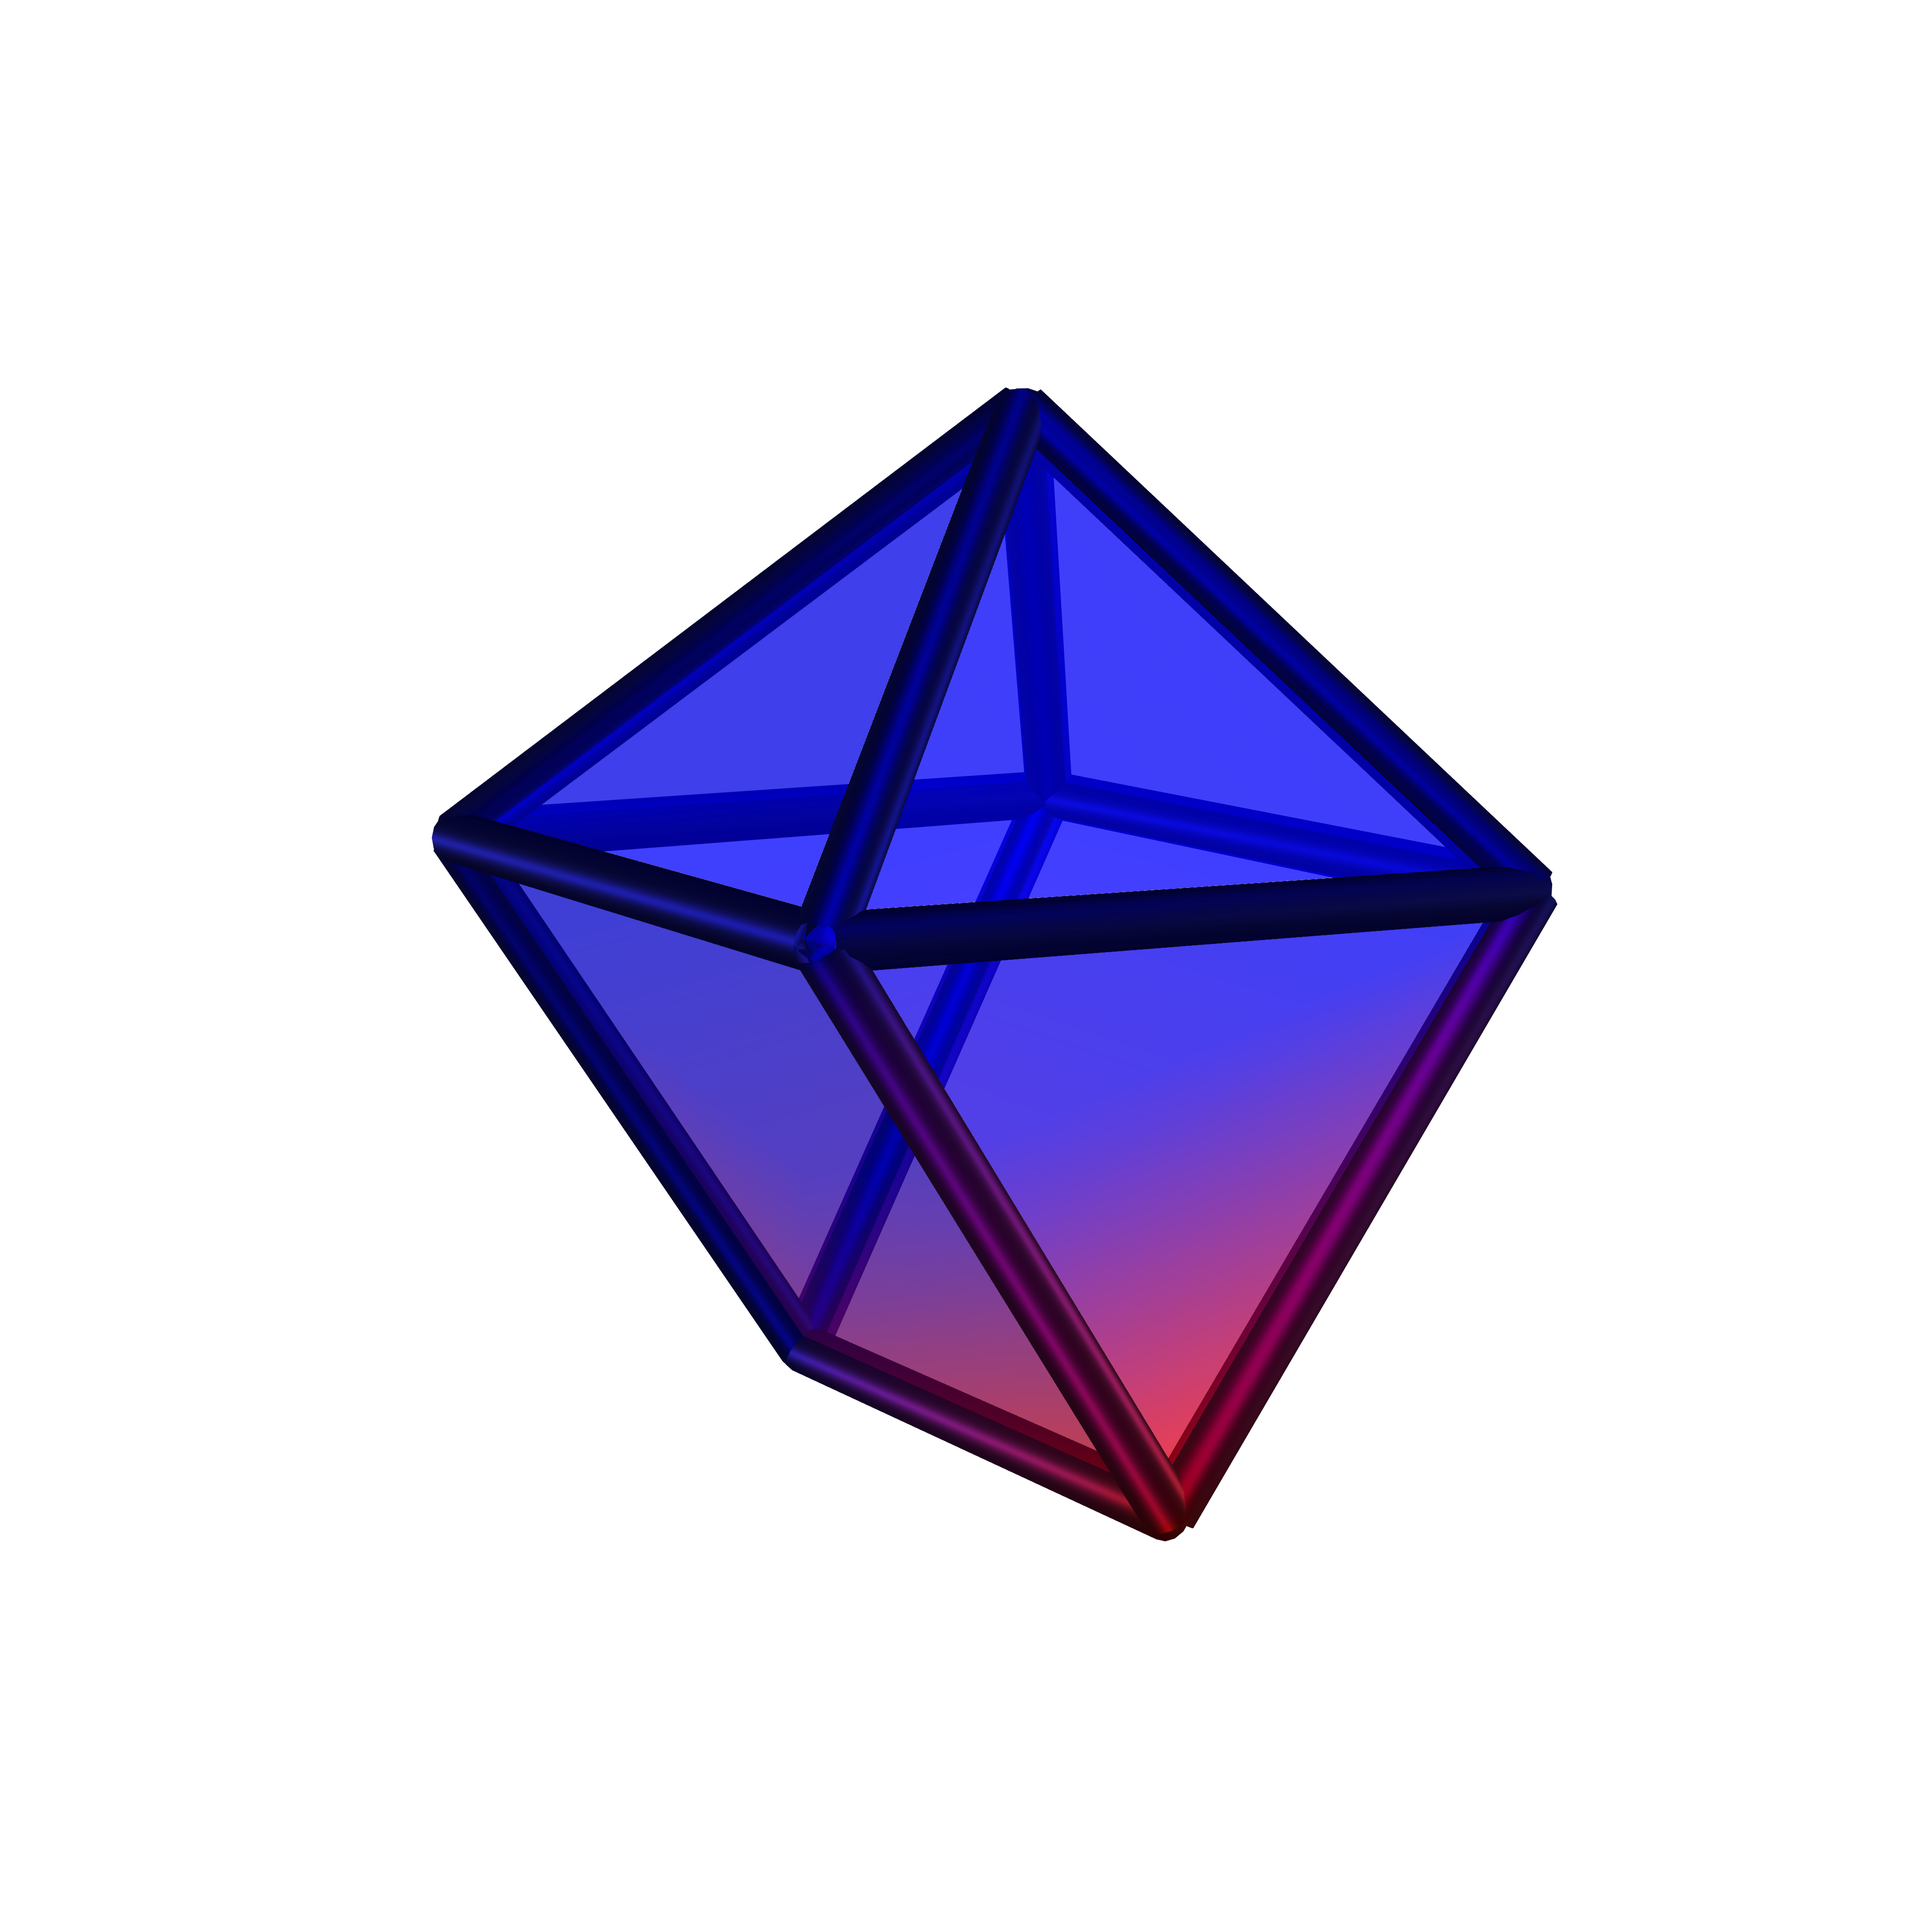
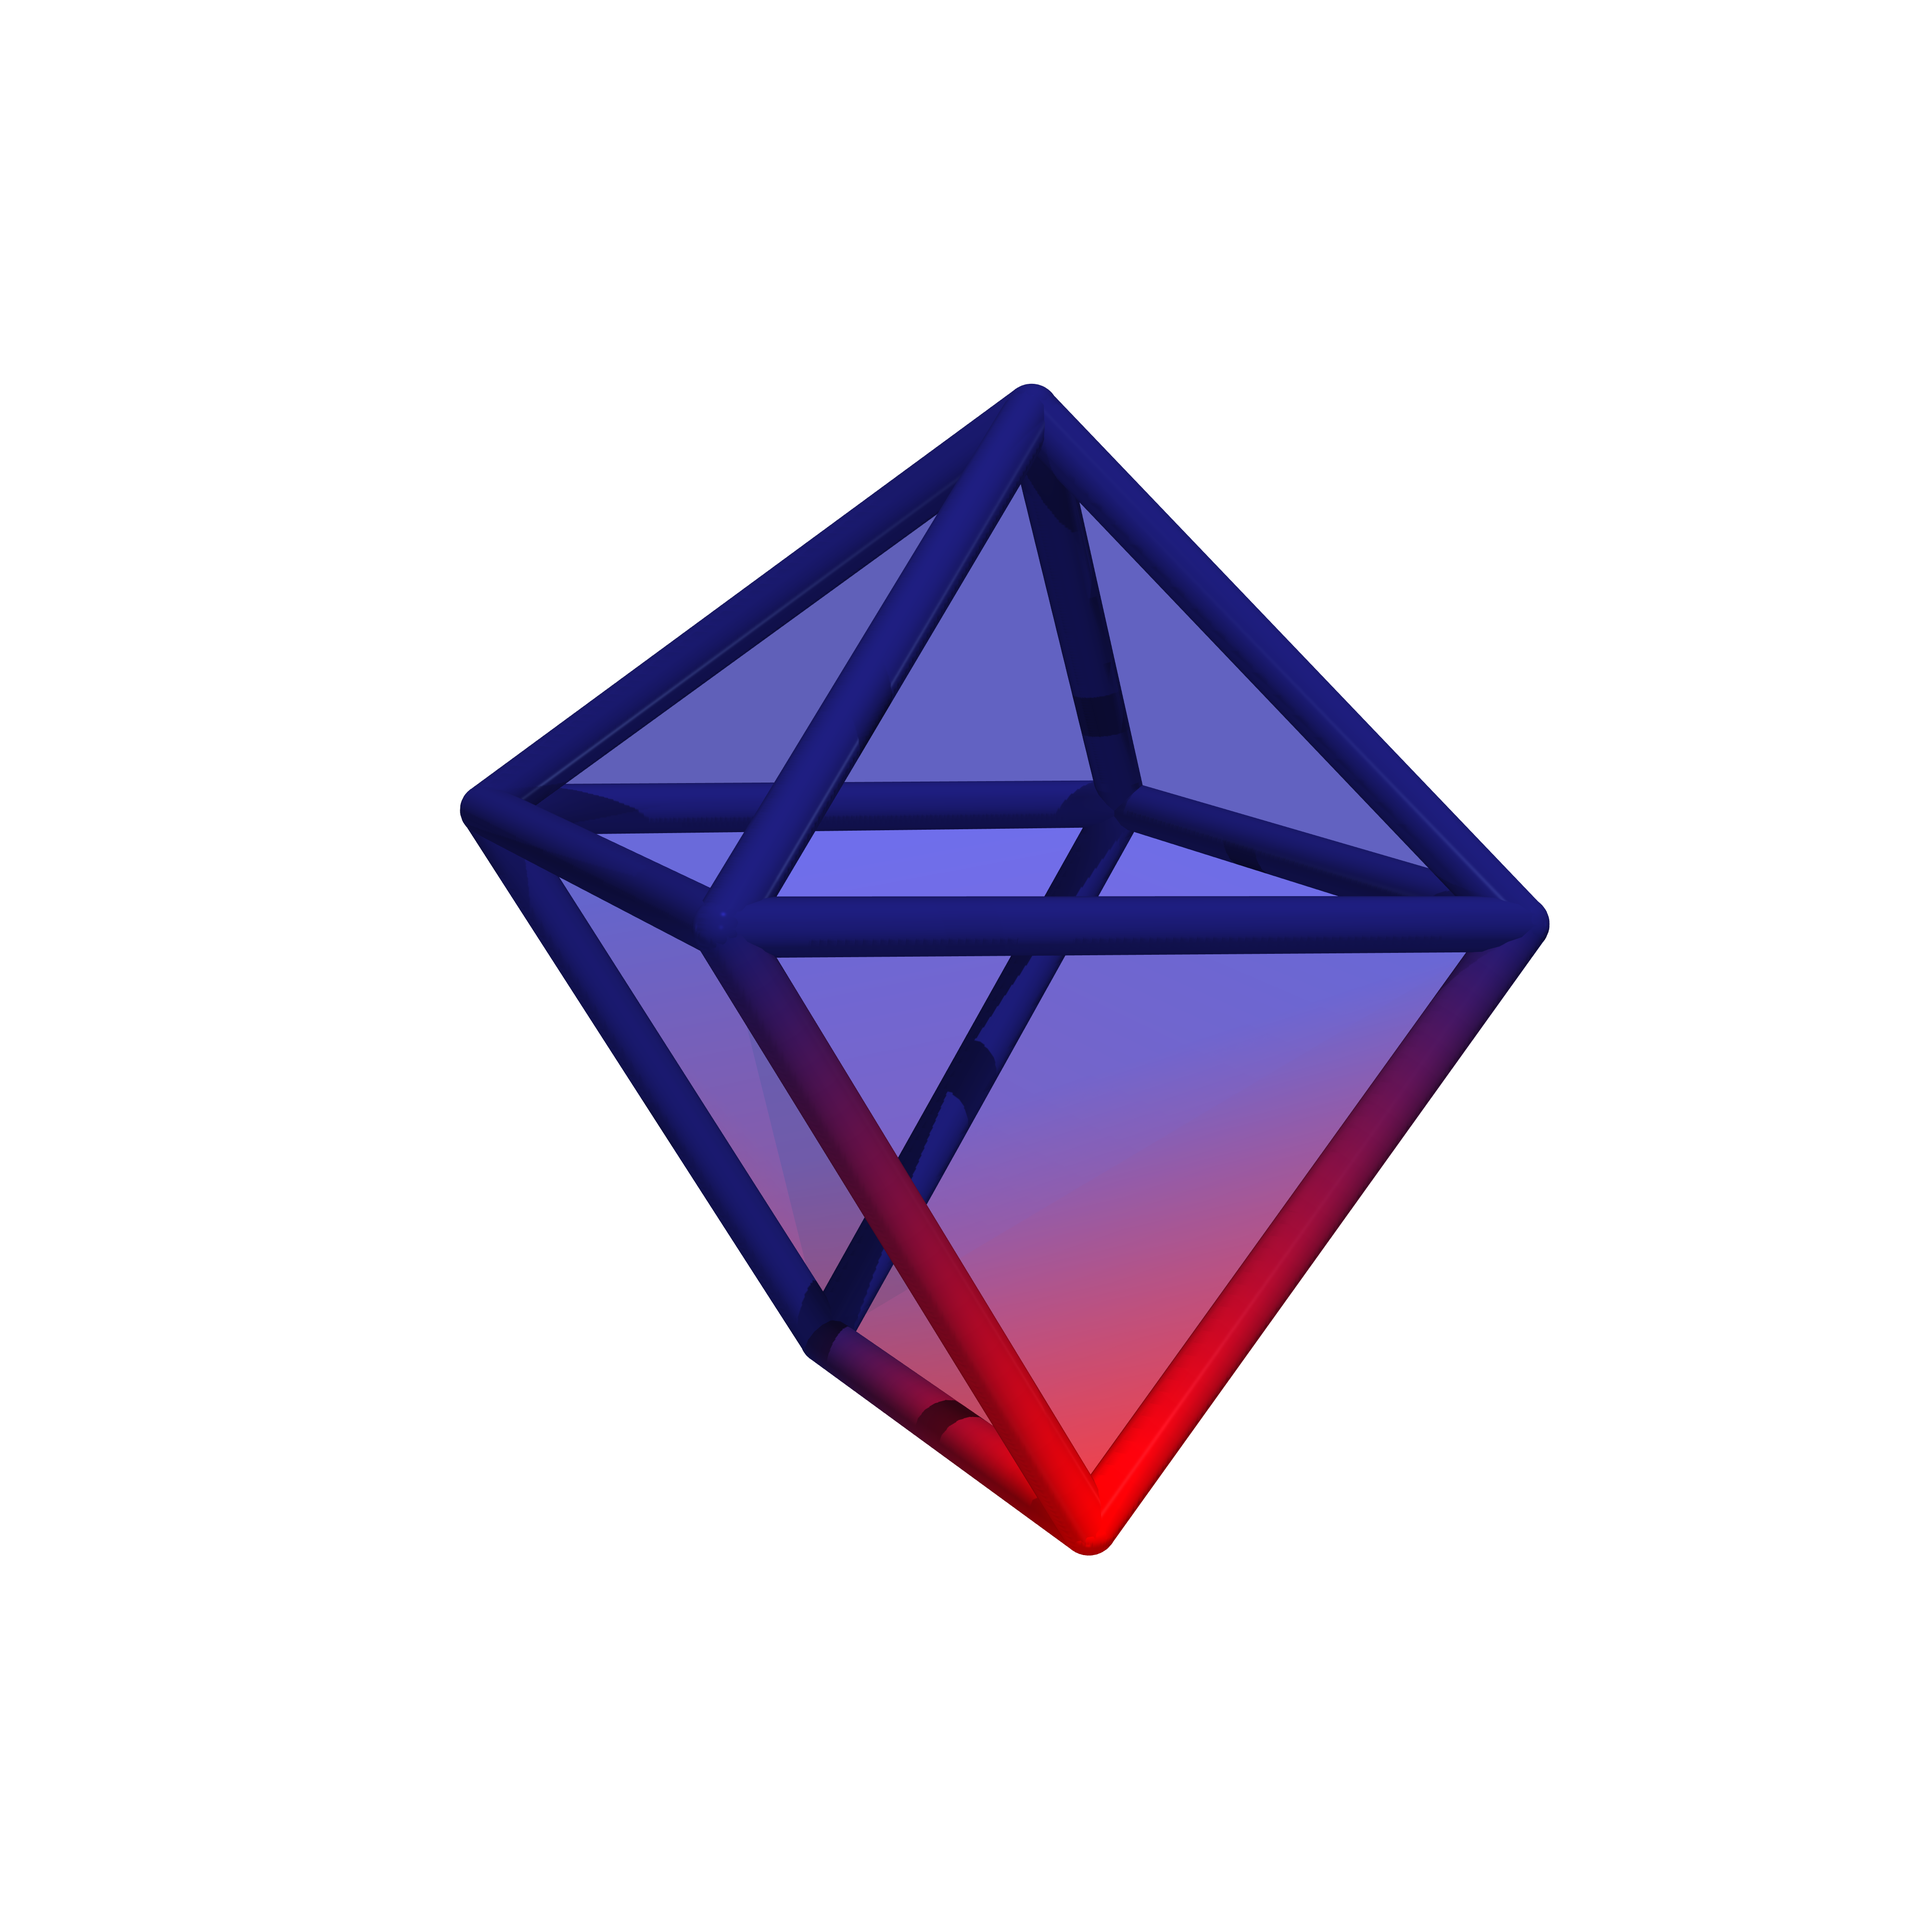
Now atoms are rendered also. TODO: have the bonds take in the radius (maybe make the default 0.1)

Changed region(s): [[0.2188, 0.1875, 0.8125, 0.8125]]

diff --git a/examples/render_capped_trigonal_prism/calc_sph_clean.py b/examples/render_capped_trigonal_prism/calc_sph_clean.py
@@ -13,35 +13,7 @@ from pyvista import PolyData
 import pyvista as pv
 from matplotlib.colors import ListedColormap, LinearSegmentedColormap
 import matplotlib.pyplot as plt
-from pyvista.plotting.opts import ElementType
-
-def make_interpolated_points(pointa, pointb, num_points):
-    """Interpolate points between pointa and pointb"""
-    t = np.linspace(0, 1, num_points + 2)[1:-1]  # Exclude endpoints to avoid duplicating pointa and pointb
-    x_interp = (1 - t) * pointa[0] + t * pointb[0]
-    y_interp = (1 - t) * pointa[1] + t * pointb[1]
-    z_interp = (1 - t) * pointa[2] + t * pointb[2]
-    points = np.column_stack((x_interp, y_interp, z_interp))
-    # Insert the end points 
-    points = np.insert(points, 0, pointa, axis=0)
-    points = np.insert(points, len(points), pointb, axis=0)
-    return points
-
-# Create a list of padded edges, with each point connected to the next 
-def edges_with_padding_adjacent(points):
-    n_segments = len(points)
-
-    edge_list = []
-
-    for i in range(n_segments-1):
-        edge_list.append( [i, i+1] )
-
-    edge_list = np.array(edge_list)
-    # We must "pad" the edges to indicate to vtk how many points per edge 
-    padding = np.empty(edges.shape[0], int) * 2
-    padding[:] = 2
-    edges_w_padding = np.vstack((padding, edges.T)).T
-    return edges_w_padding 
+from pyvista.plotting.opts import ElementType 
 
 def distance_projected(pointa, pointb, pointc, pointd):
     # Calculate the direction vector of the line defined by C and D
@@ -56,6 +28,36 @@ def distance_projected(pointa, pointb, pointc, pointd):
     
     return projected_distance
 
+# The bond is coloured according to a gradient between the two
+# end point colours 
+# actor_name will be the name of the actor in the plotter, needed for interactive deletion
+# a_color and b_color (colors of end points as strings)
+def add_bond(plotter, pointa, pointb, a_color, b_color, actor_name):
+
+    # Create matplotlib colormap
+    colors = [a_color, b_color]
+    m_cmap = LinearSegmentedColormap.from_list("mycmap", colors)
+    # Each tube is between the two input points 
+    tube = pv.Tube(pointa=pointa, pointb=pointb, resolution=1, radius=0.1, n_sides=15)
+    # Create color ids
+    color_ids = [] 
+    for point in tube.points:
+        color_ids.append(distance_projected(tube.points[0], point, tube.points[0], tube.points[-1]))
+    color_ids = np.array(color_ids)
+    plotter.add_mesh(tube, 
+    show_edges=False,
+    metallic=True,
+    smooth_shading=True,
+    specular=0.7,
+    ambient=0.3,
+    scalars=color_ids,
+    cmap=m_cmap,
+    show_scalar_bar=False,
+    pickable=True,
+    name=actor_name) # pbr=True for shiny 
+
+    return plotter
+
 def create_bonds_from_edges(plotter, hull:PolyData, edges, point_colours=None, single_bond_color=None):
     """
     Create bonds from faces in a PolyData object 
@@ -69,30 +71,33 @@ def create_bonds_from_edges(plotter, hull:PolyData, edges, point_colours=None, s
         b_index = bond[1]
         pointa = points[a_index]
         pointb = points[b_index]
-        # Create matplotlib colormap
-        colors = [point_colours[a_index], point_colours[b_index]]
-        m_cmap = LinearSegmentedColormap.from_list("mycmap", colors)
-        # Each tube is between the two input points 
-        tube = pv.Tube(pointa=pointa, pointb=pointb, resolution=1, radius=0.1, n_sides=15)
-        # Create color ids
-        color_ids = [] 
-        for point in tube.points:
-            color_ids.append(distance_projected(tube.points[0], point, tube.points[0], tube.points[-1]))
-        color_ids = np.array(color_ids)
-        plotter.add_mesh(tube, 
+        actor_name = "tube"+str(idx)
+        # Create the bond
+        plotter = add_bond(plotter, pointa, pointb, point_colours[a_index], point_colours[b_index], actor_name)
+
+    return plotter 
+
+# The points are coloured according to a list of colours  
+# actor_name will be the name of the actor in the plotter, needed for interactive deletion
+# colors should be a list containing the colors for each atom 
+def add_atoms(plotter, pointset, colors, radius):
+
+    # Go over all the points inside pointset
+    for i, (point, color) in enumerate(zip(pointset, colors)):
+        sphere = pv.Sphere(radius=radius, center=point)
+        actor_name = "p_"+str(i)
+        # Add the actor
+        plotter.add_mesh(sphere,
+        color=color, 
         show_edges=False,
         metallic=True,
         smooth_shading=True,
-        pbr=True,
         specular=0.7,
         ambient=0.3,
-        scalars=color_ids,
-        cmap=m_cmap,
-        show_scalar_bar=False,
         pickable=True,
-        name="tube"+str(idx))
+        name=actor_name) # pbr=True for shiny
 
-    return plotter 
+    return plotter
 
 def minimum_image_shift(point, reference, box_dimensions):
     """
@@ -183,7 +188,8 @@ pl.image_scale = 4
 pl.set_background("white") # Background 
 # Colour the mesh faces according to the distance from the center 
 # matplotlib_cmap = plt.cm.get_cmap("coolwarm") # Get the colormap from matplotlib
-colors = ["blue", "red"]
+# colors = ["blue", "red"]
+colors = ["#3737d2", "red"]
 matplotlib_cmap = LinearSegmentedColormap.from_list("mycmap", colors)
 # Add the convex hull 
 pl.add_mesh(polyhull, 
@@ -200,7 +206,7 @@ pl.add_mesh(polyhull,
 
 # Create the bonds corresponding to the edges and add them to the plotter
 # Use matplotlib colors for points and bonds!
-point_colours = ["blue", "blue", "blue", "blue", "blue", "blue", "red"]# Don't hard code darkblue midnightblue
+point_colours = ["midnightblue", "midnightblue", "midnightblue", "midnightblue", "midnightblue", "midnightblue", "red"]# Don't hard code darkblue midnightblue
 pl = create_bonds_from_edges(pl, polyhull, edges, point_colours=point_colours)
 
 # ------------------------------------
@@ -230,6 +236,7 @@ pl.show(before_close_callback=lambda pl: last_frame_info(pl,cam_positions), auto
 pl_render = pv.Plotter(off_screen=True, window_size=[4000,4000])
 pl_render.set_background("white") # Background 
 pl_render.enable_depth_peeling(10)
+pl_render.enable_shadows()
 
 # Colour the mesh faces according to the distance from the center 
 pl_render.add_mesh(polyhull, 
@@ -242,12 +249,15 @@ pl_render.add_mesh(polyhull,
     ambient=0.3,
     cmap=matplotlib_cmap, 
     clim=[dist[4],dist[-1]], 
-    scalars=dist) # ambient=0.3,
+    scalars=dist) 
 
 # Create the bonds from the edges
 pl_render = create_bonds_from_edges(pl_render, polyhull, edges, point_colours=point_colours)
 # Remove the bonds 
 pl_render.remove_actor(remove_bonds)
+
+# Add the atoms as spheres 
+pl_render = add_atoms(pl_render, k_near_pos, point_colours, radius=0.1)
 
 pl_render.camera_position = cam_positions[-1]
 pl_render.camera_set = True
